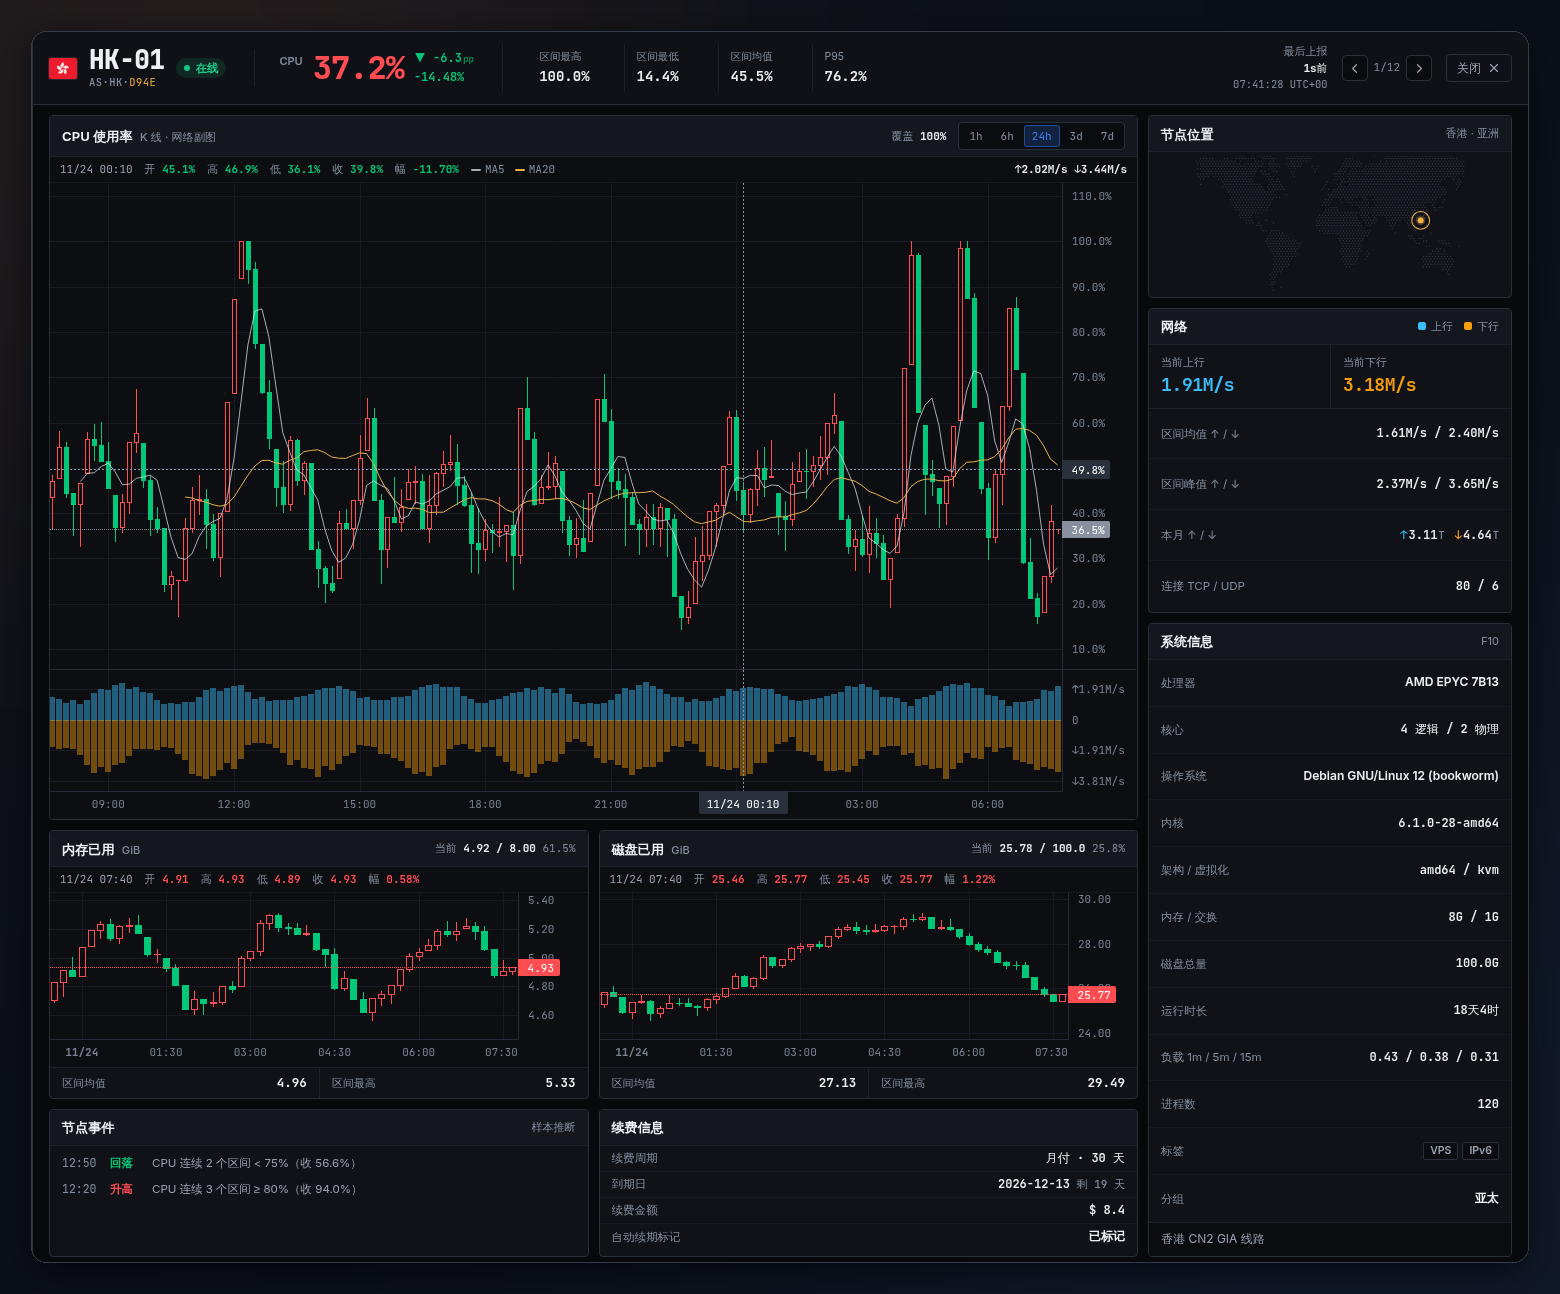
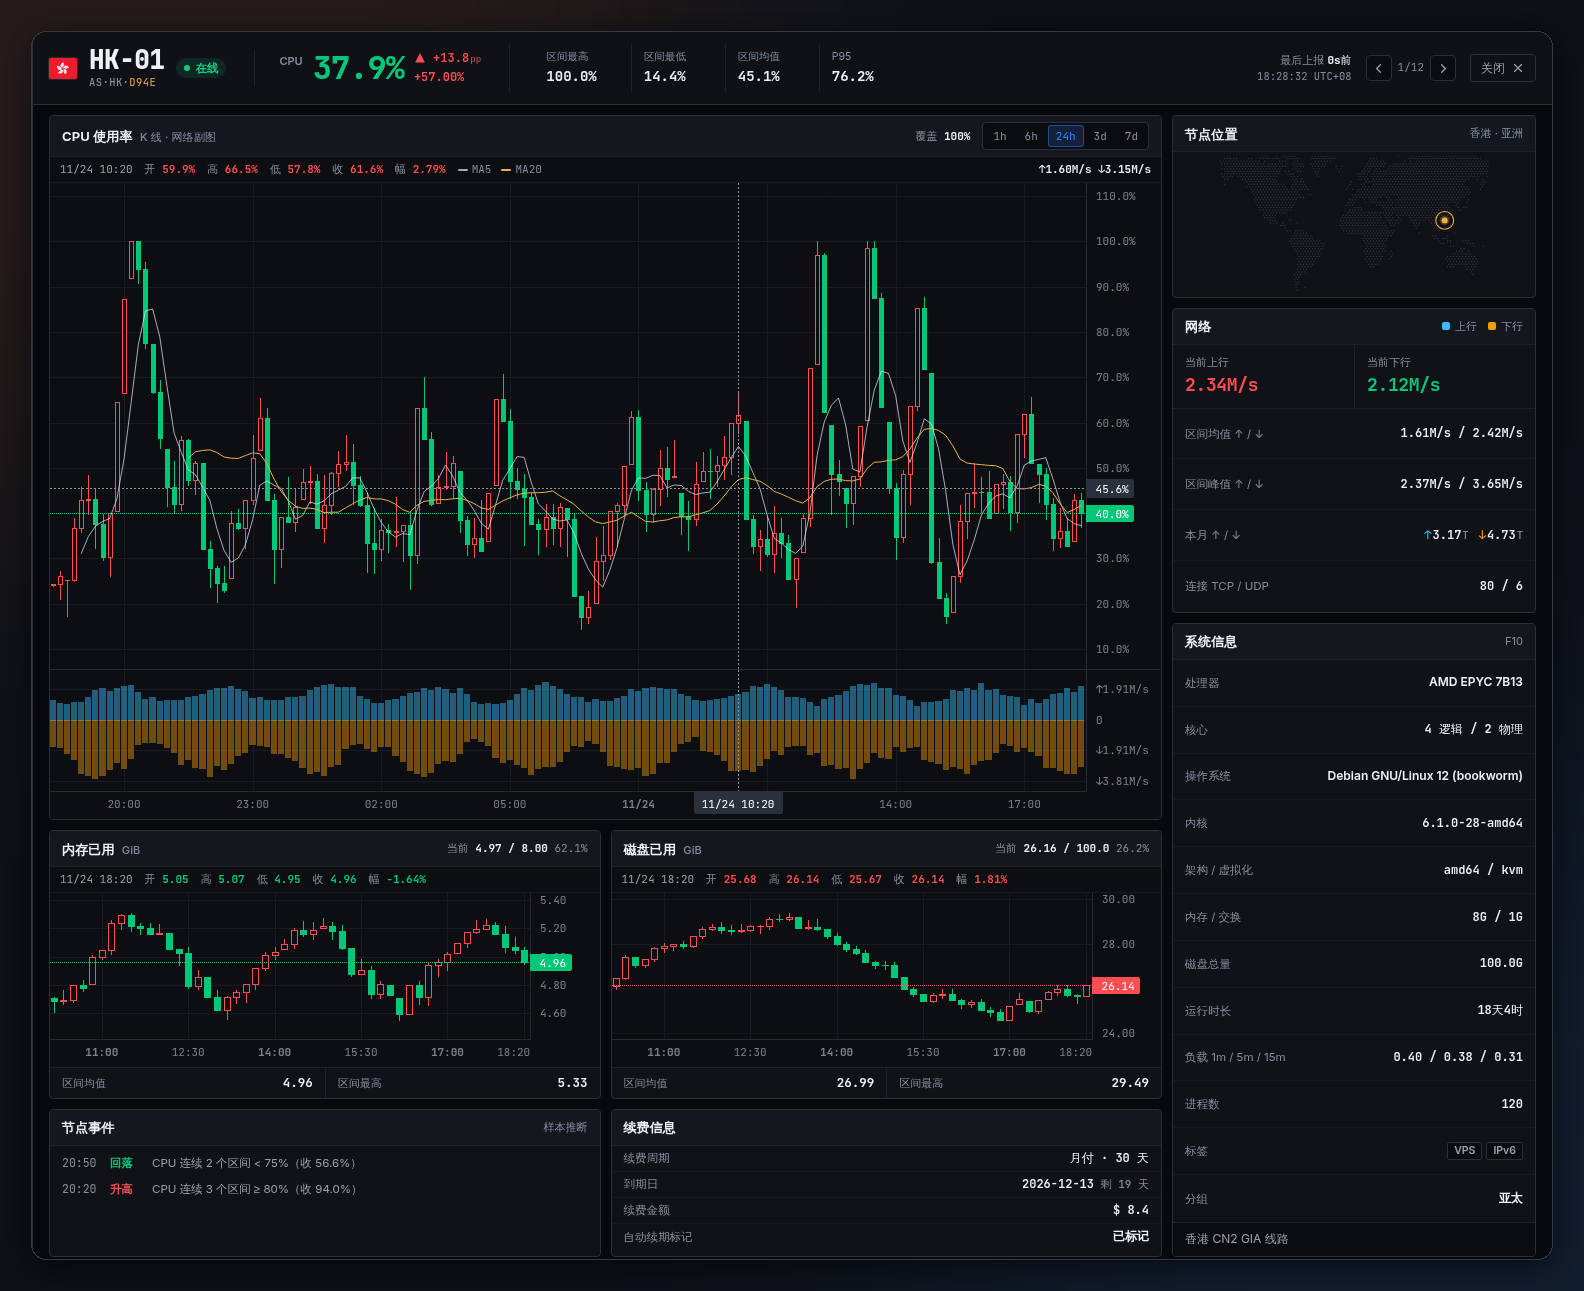
refactor: simplify market summary calculations and remove unused median function

diff --git a/src/lib/market.ts b/src/lib/market.ts
@@ -1,34 +1,27 @@
-import type { Sparks } from './api'
 import { finite } from './format'
-import { median, type Row } from './model'
+import type { Row } from './model'
+
+const CPU_WARN = 80
+const RAM_WARN = 90
 
 export interface MarketSummary {
   total: number
   online: number
   offline: number
-  hot: number
-  cpuMedian: number | null
-  cpuDelta: number | null
+  hot: number | null
   memRatio: number | null
   up: number
   down: number
   traffic: { up: number; down: number; monthly: boolean } | null
 }
 
-export function summarize(rows: Row[], sparks: Sparks | undefined, traffic: MarketSummary['traffic']): MarketSummary {
+export function summarize(rows: Row[], traffic: MarketSummary['traffic']): MarketSummary {
   const live = rows.filter((r) => r.online && r.status)
-  const cpus = live.map((r) => r.cpu).filter(finite)
-  const cpuMedian = median(cpus)
-  // Δ: current median vs. the 1h mean of the fleet median (per-bucket median across live nodes),
-  // the same basis as the board's per-node Δ.
-  let cpuDelta: number | null = null
-  if (sparks && cpuMedian !== null) {
-    const buckets = new Map<number, number[]>()
-    for (const r of live) {
-      for (const p of sparks.get(r.node.uuid)?.cpu ?? []) buckets.set(p.t, [...(buckets.get(p.t) ?? []), p.v])
-    }
-    const medians = [...buckets.values()].map(median).filter(finite)
-    if (medians.length >= 4) cpuDelta = cpuMedian - medians.reduce((x, y) => x + y, 0) / medians.length
+  let hot: number | null = null
+  for (const { cpu, ram } of live) {
+    if (!finite(cpu) && !finite(ram)) continue
+    hot ??= 0
+    if ((cpu ?? 0) >= CPU_WARN || (ram ?? 0) >= RAM_WARN) hot++
   }
   const memUsed = live.reduce((a, r) => a + (r.status!.ram ?? 0), 0)
   const memTotal = live.reduce((a, r) => a + (r.status!.ram_total || r.node.mem_total || 0), 0)
@@ -36,9 +29,7 @@ export function summarize(rows: Row[], sparks: Sparks | undefined, traffic: Mark
     total: rows.length,
     online: live.length,
     offline: rows.length - live.length,
-    hot: live.filter((r) => (r.cpu ?? 0) >= 80 || (r.ram ?? 0) >= 90).length,
-    cpuMedian,
-    cpuDelta,
+    hot,
     memRatio: memTotal > 0 ? (memUsed / memTotal) * 100 : null,
     up: live.reduce((a, r) => a + (r.status!.net_out ?? 0), 0),
     down: live.reduce((a, r) => a + (r.status!.net_in ?? 0), 0),
@@ -58,8 +49,8 @@ export function bulletins(rows: Row[]): Bulletin[] {
     const n = r.node.name
     if (!r.online) out.push({ id: `off-${r.node.uuid}`, level: 'bad', text: `${n} 离线` })
     else {
-      if ((r.cpu ?? 0) >= 80) out.push({ id: `cpu-${r.node.uuid}`, level: 'warn', text: `${n} CPU ${r.cpu!.toFixed(1)}%` })
-      if ((r.ram ?? 0) >= 90) out.push({ id: `ram-${r.node.uuid}`, level: 'warn', text: `${n} 内存 ${r.ram!.toFixed(1)}%` })
+      if ((r.cpu ?? 0) >= CPU_WARN) out.push({ id: `cpu-${r.node.uuid}`, level: 'warn', text: `${n} CPU ${r.cpu!.toFixed(1)}%` })
+      if ((r.ram ?? 0) >= RAM_WARN) out.push({ id: `ram-${r.node.uuid}`, level: 'warn', text: `${n} 内存 ${r.ram!.toFixed(1)}%` })
       if ((r.disk ?? 0) >= 90) out.push({ id: `disk-${r.node.uuid}`, level: 'warn', text: `${n} 磁盘 ${r.disk!.toFixed(1)}%` })
     }
   }

diff --git a/src/components/Chrome.tsx b/src/components/Chrome.tsx
@@ -7,9 +7,8 @@ import { useLocation } from 'react-router'
 import { SettingsButton } from './Settings'
 import type { Me } from '../lib/api'
 import { resolveTheme, type Appearance } from '../lib/appearance'
-import { clock, dateText, finite, signed, sizeParts, utcOffset } from '../lib/format'
+import { clock, dateText, finite, sizeParts, utcOffset } from '../lib/format'
 import type { Bulletin, MarketSummary } from '../lib/market'
-import { dirOf } from '../lib/model'
 import { lastLatency } from '../lib/rpc'
 import { Tick } from './primitives'
 
@@ -140,8 +139,8 @@ function LiveSize({ bytes, rate }: { bytes: number | null; rate?: boolean }) {
 }
 
 export function IndexStrip({ m, loading }: { m: MarketSummary; loading: boolean }) {
-  const normal = Math.max(0, m.online - m.hot)
-  const dir = dirOf(m.cpuDelta) ?? 'flat'
+  const hot = m.hot ?? 0
+  const normal = Math.max(0, m.online - hot)
   return (
     <section className="index-strip" aria-label="全网概览">
       <div className="ix ix-breadth">
@@ -163,19 +162,18 @@ export function IndexStrip({ m, loading }: { m: MarketSummary; loading: boolean 
         </span>
         <span className="breadth" aria-hidden="true">
           <i className="b-normal" style={{ flexGrow: normal }} />
-          <i className="b-hot" style={{ flexGrow: m.hot }} />
+          <i className="b-hot" style={{ flexGrow: hot }} />
           <i className="b-off" style={{ flexGrow: m.offline }} />
         </span>
       </div>
-      <div className="ix">
-        <span className="ix-label">CPU 中位数</span>
+      <div className="ix" title="在线节点：CPU ≥ 80% 或内存 ≥ 90%">
+        <span className="ix-label">高负载节点</span>
         <span className="ix-value num">
-          <Live value={m.cpuMedian} suffix="%" />
-          {finite(m.cpuDelta) && (
-            <span className={clsx('ix-delta', dir)} title="较近 1 小时全网中位数均值，单位为百分点">
-              {dir === 'up' ? '▲' : dir === 'down' ? '▼' : '■'} {signed(m.cpuDelta, 1)}
-              <small>pp</small>
-            </span>
+          {m.hot === null ? <span className="dash">—</span> : (
+            <>
+              <span className={clsx(hot > 0 && 'warn')}><NumberFlow value={hot} /></span>
+              <small className="unit">台</small>
+            </>
           )}
         </span>
       </div>

diff --git a/src/lib/model.ts b/src/lib/model.ts
@@ -83,13 +83,6 @@ export function metricTrail(r: Row, set: SparkSet | undefined, key: BoardMetric,
   return { points, window, avg, delta, dir: dirOf(delta, FLAT_BELOW[key]) }
 }
 
-export function median(values: number[]) {
-  if (!values.length) return null
-  const s = [...values].sort((a, b) => a - b)
-  const m = Math.floor(s.length / 2)
-  return s.length % 2 ? s[m] : (s[m - 1] + s[m]) / 2
-}
-
 /** Re-renders every `ms` milliseconds; used for clocks and "x s ago" labels. */
 export function useNow(ms = 1000) {
   const [now, setNow] = useState(() => Date.now())

diff --git a/src/App.tsx b/src/App.tsx
@@ -58,8 +58,8 @@ export default function App() {
   const market = useMemo(() => {
     const totals = rows.map(traffic).filter((t): t is { up: number; down: number } => !!t)
     const sum = totals.length ? { up: totals.reduce((a, t) => a + t.up, 0), down: totals.reduce((a, t) => a + t.down, 0), monthly: useMonthly } : null
-    return summarize(rows, sparks.data, sum)
-  }, [rows, sparks.data, traffic, useMonthly])
+    return summarize(rows, sum)
+  }, [rows, traffic, useMonthly])
 
   // "/" focuses search from anywhere outside inputs.
   useEffect(() => {

diff --git a/src/styles/chrome.css b/src/styles/chrome.css
@@ -340,11 +340,6 @@
   color: var(--text-4);
   font-weight: 400;
 }
-.ix-delta {
-  font-size: 12px;
-  font-weight: 600;
-  letter-spacing: 0;
-}
 .good {
   color: var(--online);
 }
@@ -910,9 +905,6 @@
   .ix-small .unit {
     margin-left: 0;
   }
-  .ix-delta {
-    font-size: 10px;
-  }
   .statusbar {
     padding: 0 10px;
     gap: 10px;
@@ -948,7 +940,6 @@
   }
 }
 
-.ix-delta small,
 .qb-change small {
   margin-left: 1px;
   font-size: 0.78em;
